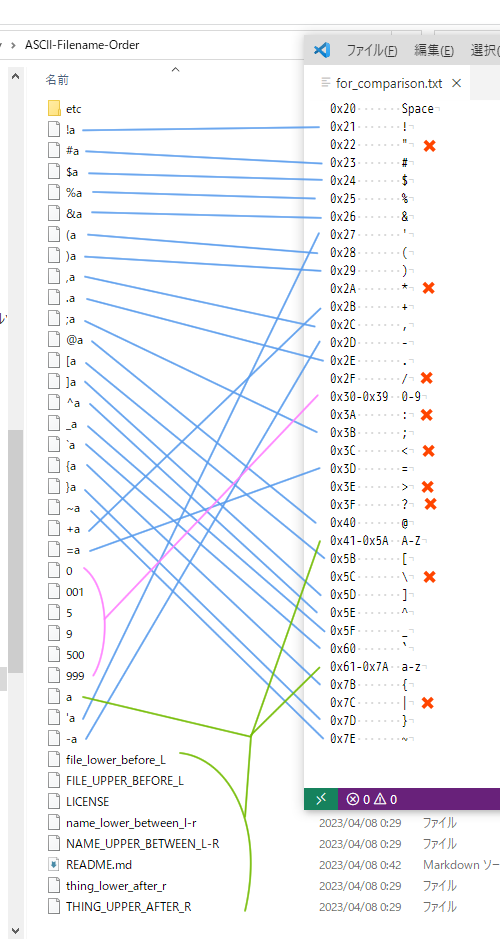
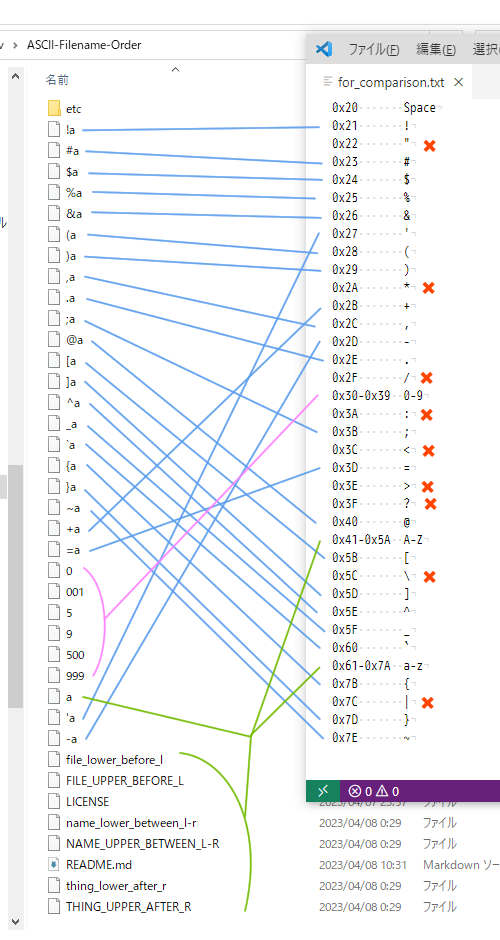
Update screenshots

diff --git a/README.md b/README.md
@@ -22,7 +22,7 @@ Confirmed on Windows 10 Home 64-bit 22H2.
 
 See the [`invalid-on-Windows`](https://github.com/Phroneris/ASCII-Filename-Order/tree/invalid-on-Windows) branch for these files.
 
-<img src="etc/GitHub_2023-04-08.png" width="230" height="880" title="GitHub (Click for full size)">
+<img src="etc/GitHub_2023-04-09.png" width="230" height="880" title="GitHub (Click for full size)">
 
 ### Sorting
 
@@ -46,7 +46,7 @@ When you "Create new file" on GitHub,
   error: unable to create file |a: Invalid argument
   ```
 
-Confirmed on Google Chrome 111.0 on 2023-04-08.
+Confirmed on Google Chrome 111.0 on 2023-04-09.
 
 ## Other OS
 
